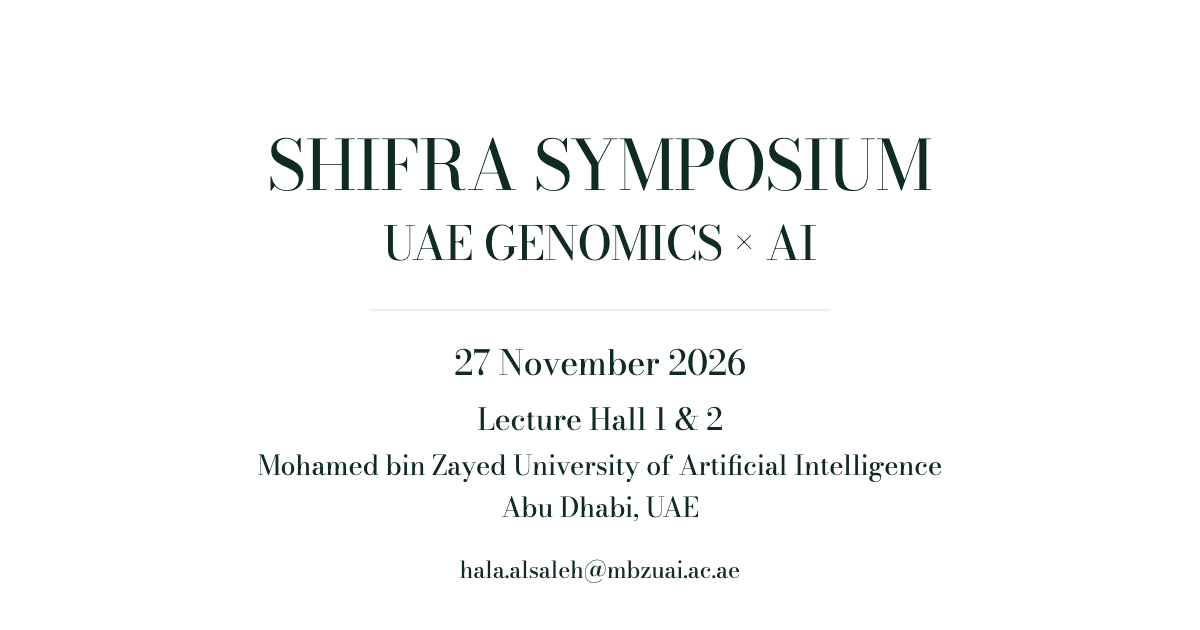
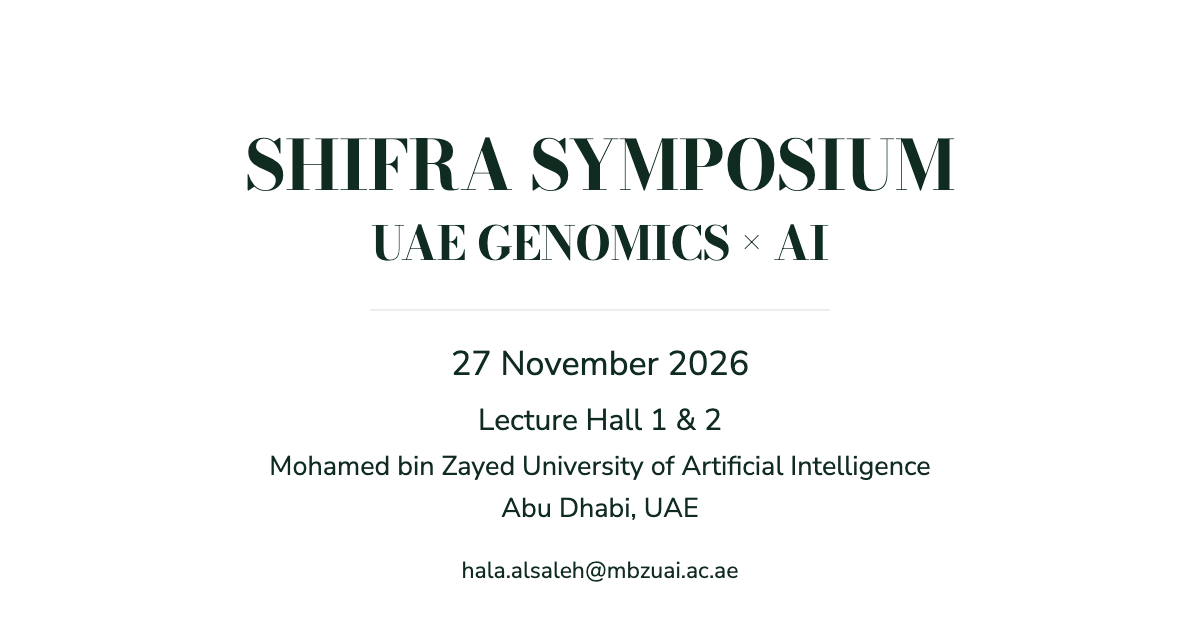
Soften SHIFRA reading typography and compact the footer

diff --git a/src/styles/global.css b/src/styles/global.css
@@ -7,6 +7,14 @@
     format("woff2");
 }
 @font-face {
+  font-family: "Nunito Sans";
+  font-style: normal;
+  font-weight: 200 1000;
+  font-display: swap;
+  src: url("@fontsource-variable/nunito-sans/files/nunito-sans-latin-wght-normal.woff2")
+    format("woff2");
+}
+@font-face {
   font-family: "Noto Sans Arabic";
   font-style: normal;
   font-weight: 100 900;
@@ -18,8 +26,9 @@
   --blue: #165747;
   --text: #28362f;
   --border: #d9e0db;
-  --heading-font: "Bodoni Moda", Didot, "Times New Roman", serif;
-  --body-font: "Bodoni Moda", Didot, "Times New Roman", serif;
+  --display-font: "Bodoni Moda", Didot, "Times New Roman", serif;
+  --body-font: "Nunito Sans", "Segoe UI", Arial, sans-serif;
+  --heading-font: var(--body-font);
   --agenda-font: var(--body-font);
 }
 * {
@@ -231,9 +240,9 @@ main:focus {
 }
 .home-title {
   margin-block: 5px;
-  font-family: var(--heading-font);
+  font-family: var(--display-font);
   font-size: 48px;
-  font-weight: 400;
+  font-weight: 700;
   line-height: 1.15;
   letter-spacing: 0.015em;
   text-transform: uppercase;
@@ -298,7 +307,7 @@ main:focus {
   text-align: center;
   font-family: var(--heading-font);
   font-size: 34px;
-  font-weight: 400;
+  font-weight: 600;
   line-height: 1.2;
   text-transform: uppercase;
 }
@@ -373,7 +382,7 @@ main:focus {
 .page-heading h1 {
   font-family: var(--heading-font);
   font-size: 55px;
-  font-weight: 400;
+  font-weight: 600;
   line-height: 60.5px;
   text-transform: uppercase;
 }
@@ -569,32 +578,25 @@ main:focus {
 }
 
 .site-footer {
-  margin-top: 50px;
-  padding-top: 20px;
-  padding-bottom: 45px;
+  margin-top: 30px;
+  padding-top: 0;
+  padding-bottom: 18px;
   text-align: center;
-  font-size: 17px;
-  line-height: 1.6;
+  font-size: 13px;
+  line-height: 1.5;
+  color: #526157;
 }
 .site-footer::before {
   content: "";
   display: block;
   height: 1px;
-  background: #cccccc;
-  margin-bottom: 20px;
+  background: var(--border);
+  margin-bottom: 12px;
 }
 .site-footer p + p {
-  margin-top: 5px;
-}
-.site-footer nav {
-  display: flex;
-  flex-wrap: wrap;
-  justify-content: center;
-  gap: 10px 22px;
-  margin-top: 18px;
+  margin-top: 3px;
 }
 .footer-contact {
-  margin-top: 22px !important;
   overflow-wrap: anywhere;
 }
 
@@ -1085,12 +1087,6 @@ main:focus {
   }
   .agenda-content p {
     margin-top: 12px;
-  }
-  .site-footer {
-    font-size: 16px;
-  }
-  .site-footer nav {
-    column-gap: 15px;
   }
 }
 @media (max-width: 767px) {

diff --git a/README.md b/README.md
@@ -1,6 +1,6 @@
 # SHIFRA Symposium
 
-A six-page, static Astro + TypeScript site for **SHIFRA | شيفرة · UAE Genomics × AI**. English public copy, locally served Bodoni Moda and Arabic fonts, and no production Node server on GitHub Pages. A separate local preview server can receive poster registrations on this computer. The academic layout now follows the supplied SHIFRA identity, with serif typography, the two approved logos, restrained green accents, and conventional conference panels.
+A six-page, static Astro + TypeScript site for **SHIFRA | شيفرة · UAE Genomics × AI**. English public copy, locally served Bodoni Moda, Nunito Sans, and Arabic fonts, and no production Node server on GitHub Pages. A separate local preview server can receive poster registrations on this computer. The academic layout now follows the supplied SHIFRA identity, with a bold serif Home title, rounded sans-serif reading text, the two approved logos, restrained green accents, and conventional conference panels.
 
 ## Local development and preview
 
@@ -46,7 +46,7 @@ These commands only build local files; they do not activate the domain or DNS.
 | Supplied logos                                                                       | Original JPEGs in `public/images/logos/`; `Brand.astro` and `Header.astro` display them without replacing their lettering  |
 | Location map                                                                         | `event.mapsUrl` and `event.mapsEmbedUrl`; the university campus location, not a separate room pin                          |
 | Countdown                                                                            | `src/components/Countdown.astro`; derives its target from `event.date`, `event.utcOffset`, and the first agenda start time |
-| Optional general-registration link                                                   | Set `event.registrationUrl` to the confirmed URL; the Registration page and footer will show it                            |
+| Optional general-registration link                                                   | Set `event.registrationUrl` to the confirmed URL; the Registration page will show it                                       |
 | Public contact                                                                       | `event.contactEmail`, supplied as `hala.alsaleh@mbzuai.ac.ae`                                                              |
 | Deployment origin and base path                                                      | `site.config.mjs` and optional full `SITE_URL` environment variable                                                        |
 | Social-sharing graphic                                                               | `public/images/shifra-social.svg` and its PNG rendition; update if the event date changes                                  |
@@ -116,12 +116,12 @@ Do this only when the organizers are ready to activate the domain:
 
 See `CONTENT_NOTES.md` for outstanding generic confirmation details. The source proposal, internal invitees, unconfirmed organizations, portraits, sponsor marks, and private contacts are not included. The two supplied logos and approved public contact email are displayed. The symposium poster is deliberately unfilled. The typographic social graphic is a separate asset.
 
-The current English typography uses **Bodoni Moda**, a high-contrast serif chosen to closely match the supplied SHIFRA logo. The original logo font file/name was not supplied, so this is a visual match, not an assertion that it is the exact original typeface. Body, headings, navigation, agenda, and forms share the same family. Noto Sans Arabic supports accessible Arabic text. Current fonts are served locally from Fontsource; OFL notices are in `licenses/`. The former D-DIN and Fontsource assets/notices remain in the source history and checkout but are no longer referenced by the page stylesheet. No HCA branding or participant content is used.
+The Home title uses **Bodoni Moda** at weight **700**, keeping its visual connection with the supplied SHIFRA logo. All other English headings, body copy, menus, agenda, buttons, and form text use the softer **Nunito Sans** family. The original logo font file/name was not supplied, so Bodoni Moda remains a visual match rather than an assertion about the original typeface. Noto Sans Arabic supports accessible Arabic text. Fonts are served locally from Fontsource; OFL notices are in `licenses/`. Earlier D-DIN, Montserrat, and Raleway assets are no longer referenced by the page stylesheet. No HCA branding or participant content is used.
 
 The two logo JPEGs are copied byte for byte from the user's attachments. SVG display filters remove their black JPEG matte in the browser while retaining the original outlines, lettering, and RGB colors. The original files are not redrawn or AI-regenerated. Header frames crop only surrounding blank margins, and both logos have meaningful alternative text.
 
 Typography: navigation 17 px; Home title 48 px on desktop, responsive 27–36 px on mobile; body 18 px; About copy 20 px on desktop and 19 px on mobile; venue label 28 px and university/city copy 22 px on desktop. The expanded three-paragraph About column and symposium poster share the same bottom edge on desktop and stack on mobile. Desktop containers remain 992 px including side padding. The banner is restored as a compact panel below the menu; it remains a labeled placeholder until an approved banner is supplied.
 
-The venue and footer use **Lecture Hall 1 & 2**, the full university name, and **Abu Dhabi, UAE**. The location block omits the BLS division line. The campus pin and external map link follow the location published on [MBZUAI's official site](https://mbzuai.ac.ae/about-us); this does not claim an independently mapped location for Lecture Halls 1 and 2.
+The venue and footer use **Lecture Hall 1 & 2**, the full university name, and **Abu Dhabi, UAE**. The footer is a compact three-line block at 13 px, with no navigation or hyperlinks. The contact email remains readable as plain text; local HTML markers prevent the temporary tunnel from automatically replacing it with an email-protection link. The location block omits the BLS division line. The campus pin and external map link follow the location published on [MBZUAI's official site](https://mbzuai.ac.ae/about-us); this does not claim an independently mapped location for Lecture Halls 1 and 2.
 
 The Home countdown is below Acknowledgement and above the footer. It targets **27 November 2026, 08:30 GST (UTC+4)** from the first agenda entry, independent of the visitor's time zone. It updates seconds and changes to “SHIFRA has started” when the target is reached; it never displays negative time. With JavaScript disabled, the date, start time, and programme link remain available.

diff --git a/VERIFICATION.md b/VERIFICATION.md
@@ -1,15 +1,15 @@
 # SHIFRA layout and poster registration verification
 
-Verified on 15 November 2026 using the built static output, the local Node receiver, and actual Chrome. This revision retains the academic structure and incorporates the two supplied logos, matching serif typography, a compact banner, the expanded Home layout, campus map, contact details, and countdown.
+Verified on 15 November 2026 using the built static output, the local Node receiver, and actual Chrome. This revision retains the academic structure and incorporates the two supplied logos, a bold display title and rounded body typography, a compact banner, the expanded Home layout, campus map, contact details, and countdown.
 
 ## Pages and presentation
 
 - The venue is **Lecture Hall 1 & 2** in event content, page metadata, footers, registration, and the social-sharing graphic.
-- Both supplied logo JPEGs appear above navigation on every page. Their files match the attachments byte for byte; display filters remove the black matte without redrawing the lettering or shapes. Bodoni Moda is used for English headings, body, menu, agenda, and form text as a close visual match to the SHIFRA logo. Navigation remains 17 px, with Registration between Agenda and Organizing Committee and active on both registration routes.
+- Both supplied logo JPEGs appear above navigation on every page. Their files match the attachments byte for byte; display filters remove the black matte without redrawing the lettering or shapes. Bodoni Moda is retained only for the Home title at weight 700. All other English text uses Nunito Sans, including headings, body, menu, agenda, and form text. Navigation remains 17 px, with Registration between Agenda and Organizing Committee and active on both registration routes.
 - The banner panel is restored immediately below navigation, centered at a maximum of 860 px wide. It is 160 px high on desktop and 112 px on mobile. It remains labeled as a placeholder until an official banner is supplied.
 - About this event has three expanded paragraphs, rendered at 20 px on desktop and 19 px on mobile. Its text and poster columns have matching bottom edges on desktop; they stack on mobile. Location uses the full university name and Abu Dhabi, UAE; the BLS division line is removed. Acknowledgement still thanks Eduardo Beltrame, the speakers, and the BLS administrative team.
-- Visited and refreshed all six routes at 1440, 768, 390, and 320 px. No horizontal overflow, clipped Arabic, broken image, failed resource request, or browser runtime error remained. The narrow-screen acknowledgement heading scales to fit.
-- Inspected desktop and mobile screenshots. Verified both logos, all six pages, compact banner, home content order, four labeled required fields, mobile menu navigation, Escape closing, and focus return. Bundled Bodoni Moda loads successfully. All six footers contain the spaced hall numbers, university name, city, and working `mailto:hala.alsaleh@mbzuai.ac.ae` link.
+- Visited all six routes at 1440, 390, and 320 px. No horizontal overflow, clipped Arabic, broken image, failed resource request, or browser runtime error remained. The narrow-screen acknowledgement heading scales to fit.
+- Inspected desktop and mobile screenshots. Verified both logos, all six pages, compact banner, home content order, four labeled required fields, mobile menu navigation, Escape closing, and focus return. Bundled Bodoni Moda and Nunito Sans load successfully. All six footers contain the spaced hall numbers, university name, city, and the plain-text contact email `hala.alsaleh@mbzuai.ac.ae`. All footer navigation and hyperlinks have been removed, and the footer uses 13 px text with reduced spacing. The public tunnel preview also preserves the contact address as plain text without inserting an email-protection link.
 - The location section includes a Google Maps embed and an external campus-location link from MBZUAI’s official site. No separate geographic coordinates for the individual lecture halls are claimed.
 - The countdown follows Acknowledgement and targets 27 November 2026 at 08:30 GST (UTC+4), derived from the first agenda entry. Browser clocks set to Los Angeles and Tokyo both show the same remaining interval. Tests cover a one-day interval, the next second across the day boundary, and expiry at exactly the start time; it changes to “SHIFRA has started” without negative values. Its date and programme link remain usable without JavaScript.
 - The 17 agenda entries, UAE time zone, organizer order, existing print control, and other conference content remain intact.
@@ -27,7 +27,7 @@ Verified on 15 November 2026 using the built static output, the local Node recei
 ## Builds and delivery
 
 - Astro check: **0 errors, 0 warnings, 0 hints** across 26 files.
-- Production project-path build, working local-preview build, and root-domain build all pass. Each contains six HTML routes and passes validation of 113 local asset/link references, canonical metadata, and all 17 UAE-time agenda entries.
+- Production project-path build, working local-preview build, and root-domain build all pass. Each contains six HTML routes and passes validation of 84 local asset/link references, canonical metadata, and all 17 UAE-time agenda entries.
 - The root-domain build's six routes also load directly. A normal production build without an upload receiver keeps collection closed, disables the form controls, and explicitly says submissions are not being collected.
 - GitHub Pages remains static. Its workflow now tests the local receiver and accepts a future `POSTER_SUBMISSION_ENDPOINT` repository variable for a separately hosted receiver. The local receiver is not included in the Pages deployment.
 - Source remains on `codex/shifra-preview` for review. No merge into main, repository visibility change, custom-domain activation, DNS update, or GitHub Pages settings change is included.
